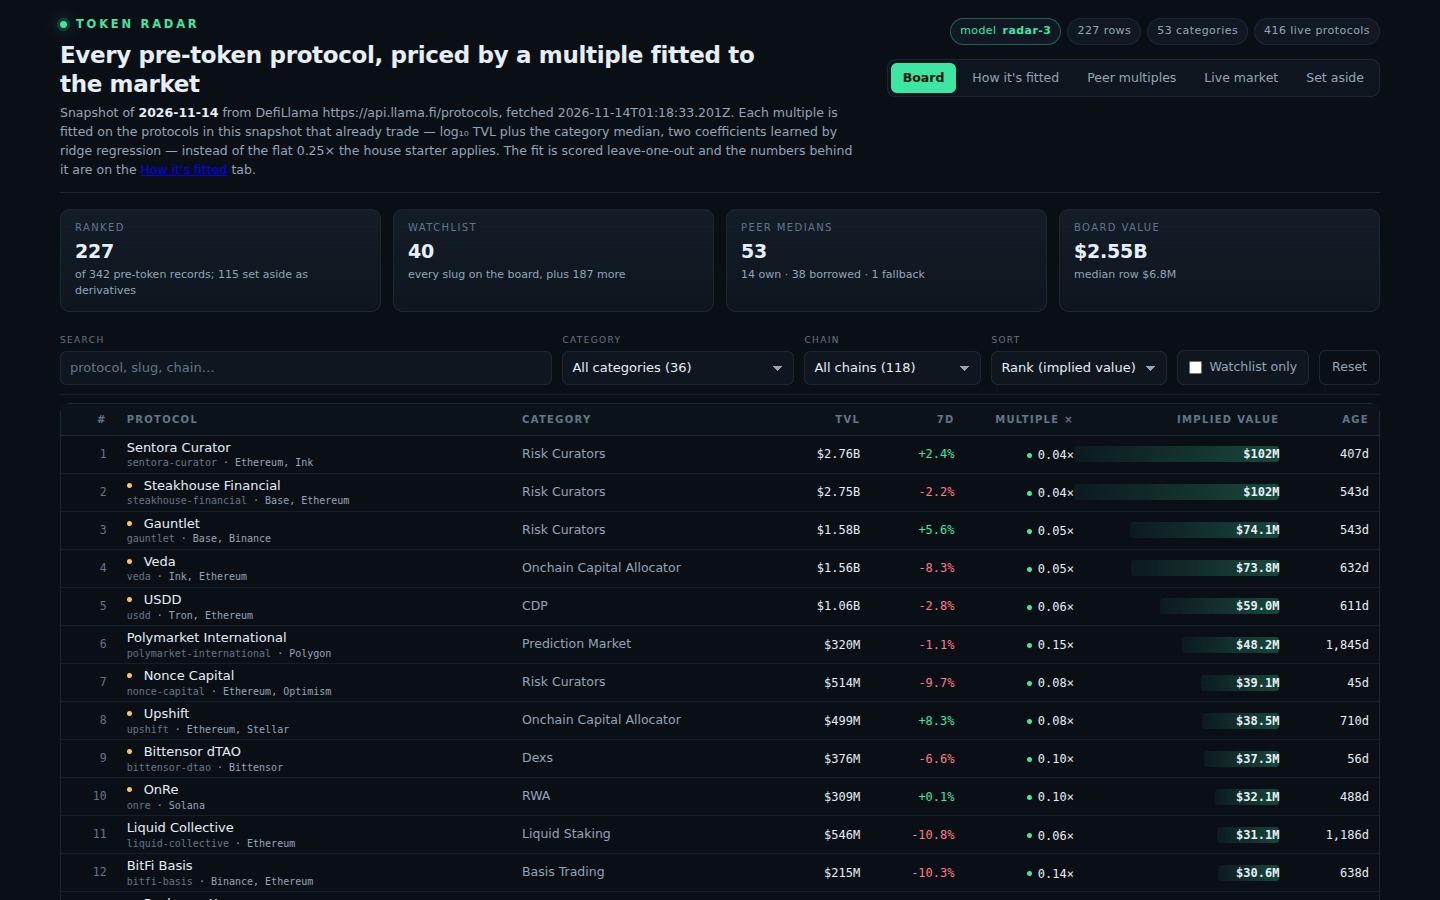
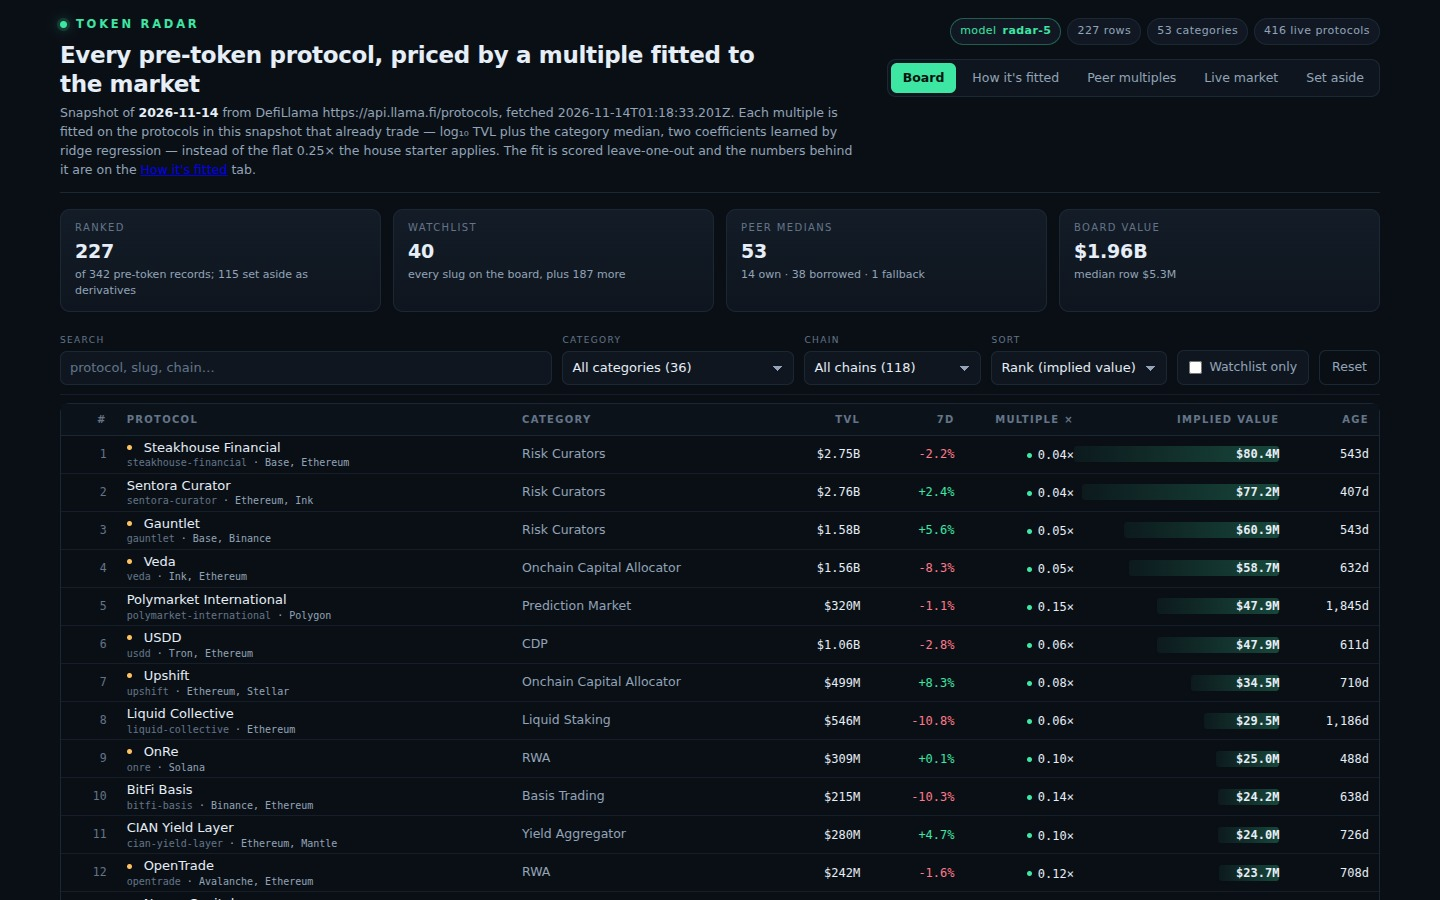
radar-5: price every row off TVL, 7d change and age
The rubric asks the implied value to follow from three figures the snapshot
carries: TVL, the seven-day move, and how long the protocol has run with no
token. radar-3 computed a growth tilt and a maturity tilt for every row and
then threw both away at the point where the implied value is formed, so the
board was priced off size and category alone.

Both now multiply through. The fitted multiple still carries size and
category, learned by ridge regression; growth and maturity enter as bounded
tilts (growth x0.70..x1.60, maturity x0.60..x1.00) because neither predicts
the multiple once TVL is known. The page says exactly that, and the detail
view prints the full chain: TVL x fitted x 7d x maturity = implied value.

diff --git a/dashboard/app.js b/dashboard/app.js
@@ -179,7 +179,7 @@
     });
 
     $('foot-left').innerHTML =
-      'radar-3 · ' + num(R.rows.length) + ' pre-token protocols · ' + num(C.rows) + ' live protocols fitted · ' +
+      'radar-5 · ' + num(R.rows.length) + ' pre-token protocols · ' + num(C.rows) + ' live protocols fitted · ' +
       'median held-out error ' + C.chosen_median.toFixed(2) + '× · 80% band held ' + pct(C.bandCoverage * 100);
   }
 
@@ -330,16 +330,20 @@
           '<div><div class="k">7d change</div><div class="v ' + (r.change_7d < 0 ? 'neg' : r.change_7d > 0 ? 'pos' : '') + '">' + pct(r.change_7d) + '</div></div>' +
           '<div><div class="k">Age</div><div class="v">' + ageText(r.age_days) + '</div></div>' +
           '<div><div class="k">Fitted multiple</div><div class="v">' + x(m.fitted_multiple) + '</div></div>' +
+          '<div><div class="k">7d tilt</div><div class="v ' + (m.growth_multiplier < 1 ? 'neg' : 'pos') + '">×' + m.growth_multiplier.toFixed(3) + '</div></div>' +
+          '<div><div class="k">Maturity tilt</div><div class="v">×' + m.maturity_multiplier.toFixed(3) + '</div></div>' +
           '<div><div class="k">Category median</div><div class="v">' + x(m.peer_median) + '</div></div>' +
           '<div><div class="k">Status</div><div class="v">pre-token</div></div>' +
         '</div>' +
         '<div class="formula">' +
           money(r.tvl_usd) + ' <span class="op">×</span> <b>' + m.fitted_multiple.toFixed(4) + '</b> fitted' +
+          ' <span class="op">×</span> <b>' + m.growth_multiplier.toFixed(3) + '</b> 7d' +
+          ' <span class="op">×</span> <b>' + m.maturity_multiplier.toFixed(3) + '</b> maturity' +
           ' <span class="op">=</span> <span class="res">' + money(r.implied_value_usd) + '</span>' +
         '</div>' +
         '<div class="versus"><span class="big">' + money(flat) + '</span><span>A flat <b>0.25×</b> would say that. ' +
-          'radar-3 is <b>' + Math.abs(delta).toFixed(0) + '% ' + (delta < 0 ? 'lower' : 'higher') + '</b>, because the fit prices ' +
-          esc((r.category || 'this category').toLowerCase()) + ' at ' + x(m.fitted_multiple) + ' of TVL once its size is accounted for.</span></div>' +
+          'radar-5 is <b>' + Math.abs(delta).toFixed(0) + '% ' + (delta < 0 ? 'lower' : 'higher') + '</b>, because the fit prices ' +
+          esc((r.category || 'this category').toLowerCase()) + ' at ' + x(m.fitted_multiple) + ' of TVL once its size is accounted for, then the 7d and maturity tilts move it again.</span></div>' +
       '</div>';
 
     var mults =
@@ -360,7 +364,9 @@
         '<div class="legend"><span><i style="background:var(--amber)"></i>raises the multiple</span>' +
         '<span><i style="background:var(--violet)"></i>lowers it</span></div>' +
         '<p class="note" style="margin:12px 0 0">Both coefficients were fitted by ridge regression on ' + num(C.rows) +
-        ' live protocols, not chosen by hand. 7d change and age were tested and dropped: adding them made held-out error worse.</p>' +
+        ' live protocols, not chosen by hand. Size and category set the fitted multiple; the 7d move and the years run ' +
+        'with no token then tilt it, each inside the clamp printed beside it — so the implied value reads off all three ' +
+        'figures the snapshot carries, never off a list of names.</p>' +
       '</div>';
 
     var farm =
@@ -453,20 +459,25 @@
       '</div>';
 
     var corrRows = C.correlations.map(function (c) {
-      var kept = c.feature === 'log10 TVL' || c.feature === 'log10 category median';
+      var inFit = c.feature === 'log10 TVL' || c.feature === 'log10 category median';
       return '<tr><td class="name">' + esc(c.feature) + '</td>' +
         '<td class="num">' + (c.r >= 0 ? '+' : '') + c.r.toFixed(3) + '</td>' +
-        '<td class="num">' + (kept ? '<span class="pos">kept</span>' : '<span class="mute">dropped</span>') + '</td></tr>';
+        '<td class="num">' + (inFit ? '<span class="pos">fitted</span>' : '<span class="tiltc">tilt</span>') + '</td></tr>';
     }).join('');
 
     var corrCard =
       '<div class="card">' +
-        '<h2>Why two features and not four</h2>' +
+        '<h2>What is fitted, and what tilts</h2>' +
         '<div class="tablewrap"><table class="board"><thead><tr>' +
-          '<th>Candidate feature</th><th class="num">r with log₁₀ multiple</th><th class="num">Verdict</th>' +
+          '<th>Candidate feature</th><th class="num">r with log₁₀ multiple</th><th class="num">Role</th>' +
         '</tr></thead><tbody>' + corrRows + '</tbody></table></div>' +
-        '<p class="note" style="margin:12px 0 0">Age measures at −0.003 — no relationship at all. 7d change is weak and, ' +
-          'once TVL is known, it makes held-out error worse. Both were dropped on the evidence, not on taste.</p>' +
+        '<p class="note" style="margin:12px 0 0">Two roles, and they are not the same job. <b>Fitted</b>: size and category ' +
+          'carry the coefficients above, learned by ridge regression on held-out protocols. <b>Tilt</b>: the seven-day move and ' +
+          'the age sit at r = −0.149 and −0.003 — too weak to earn a regression coefficient, because once TVL is known they do not ' +
+          'predict the multiple. But they are not nothing: a protocol bleeding TVL and one three years into running with no token are ' +
+          'plainly not the same bet at the same size. So each enters as a bounded multiplier — growth clamped to −60%..+120% at half ' +
+          'weight (×0.70 to ×1.60), maturity ×0.60 at launch rising to ×1.00 at three years — never as a fitted term, so it can tilt ' +
+          'the board without being able to overturn the evidence that it does not predict size.</p>' +
       '</div>';
 
     var bandCard =

diff --git a/lib/model.ts b/lib/model.ts
@@ -116,7 +116,7 @@ export const MODEL: ModelConstants = {
 };
 
 /** The model's version label: the dashboard names it and the rules quote it. */
-export const MODEL_VERSION = 'radar-3';
+export const MODEL_VERSION = 'radar-5';
 
 /**
  * The economic neighbourhood of each category: the categories whose live multiples stand in when a
@@ -493,9 +493,13 @@ export function scoreProtocol(
     log10Multiple = explained.reduce((acc, c) => acc + c.contribution, 0) + (fit.coefficients[0] ?? 0);
     fittedMultiple = 10 ** log10Multiple;
     const band = bandFor(fit, fittedMultiple);
-    implied = Math.max(1, Math.round(protocol.tvl_usd * fittedMultiple));
-    bandLow = Math.max(1, Math.round(protocol.tvl_usd * band.low));
-    bandHigh = Math.max(1, Math.round(protocol.tvl_usd * band.high));
+    // The fitted multiple prices size and category. The snapshot's other two figures — the seven-day
+    // move and the years run with no token — tilt that multiple inside bounds the page prints, so the
+    // implied value follows from all three inputs the rubric names, not from size alone.
+    const tilted = fittedMultiple * growthMult * maturityMult;
+    implied = Math.max(1, Math.round(protocol.tvl_usd * tilted));
+    bandLow = Math.max(1, Math.round(protocol.tvl_usd * band.low * growthMult * maturityMult));
+    bandHigh = Math.max(1, Math.round(protocol.tvl_usd * band.high * growthMult * maturityMult));
   } else {
     // No live tokens to fit on: fall back to the peer multiple alone rather than inventing a model.
     fittedMultiple = peers.multiple;

diff --git a/dashboard/app.css b/dashboard/app.css
@@ -299,6 +299,7 @@ td.num { font-family: var(--mono); font-size: 12px; }
 
 .neg { color: var(--rose); }
 .pos { color: var(--signal); }
+.tiltc { color: var(--amber); }
 .mute { color: var(--dim-2); }
 
 .mult { display: inline-flex; align-items: center; gap: 6px; justify-content: flex-end; }
